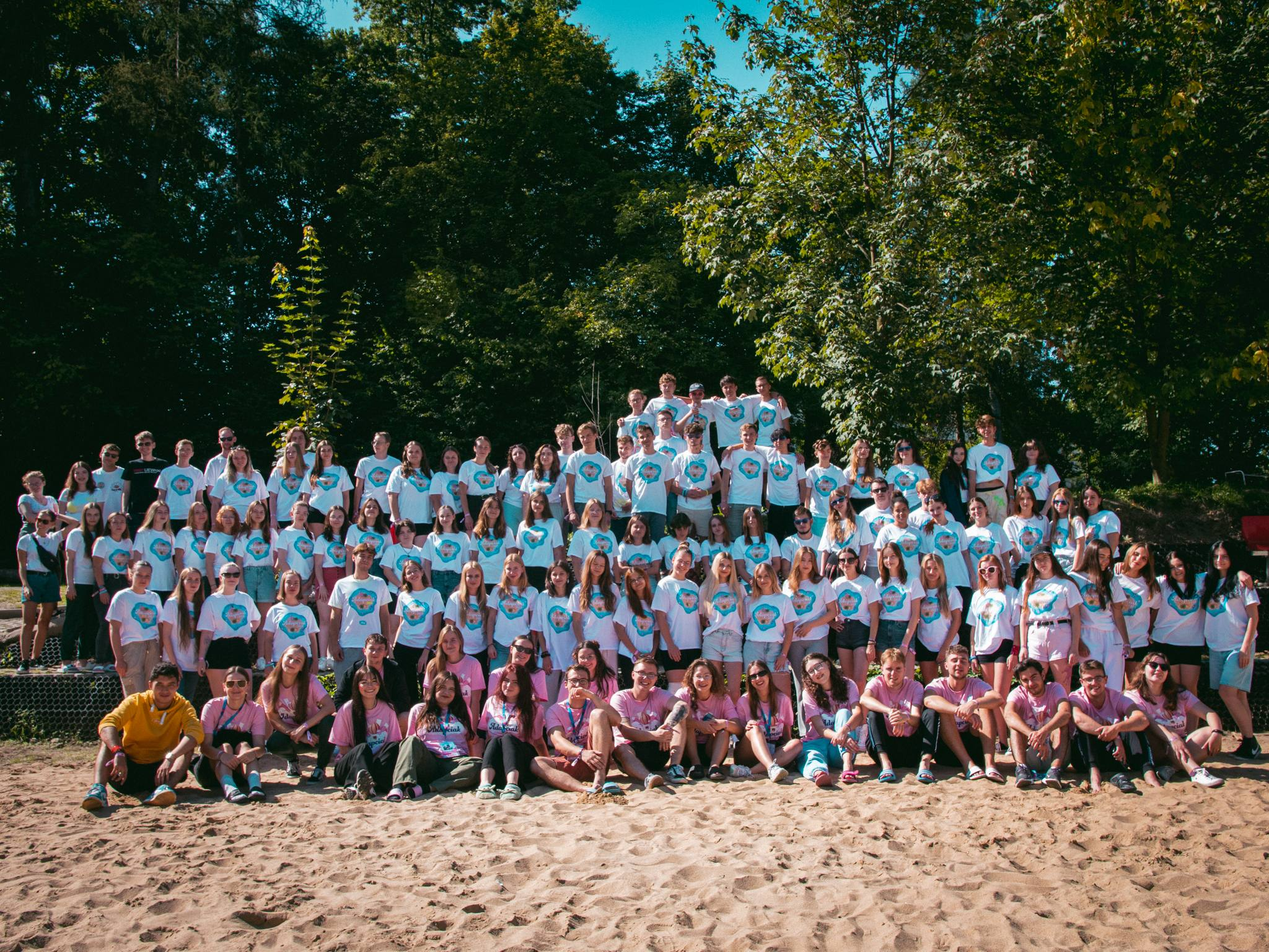
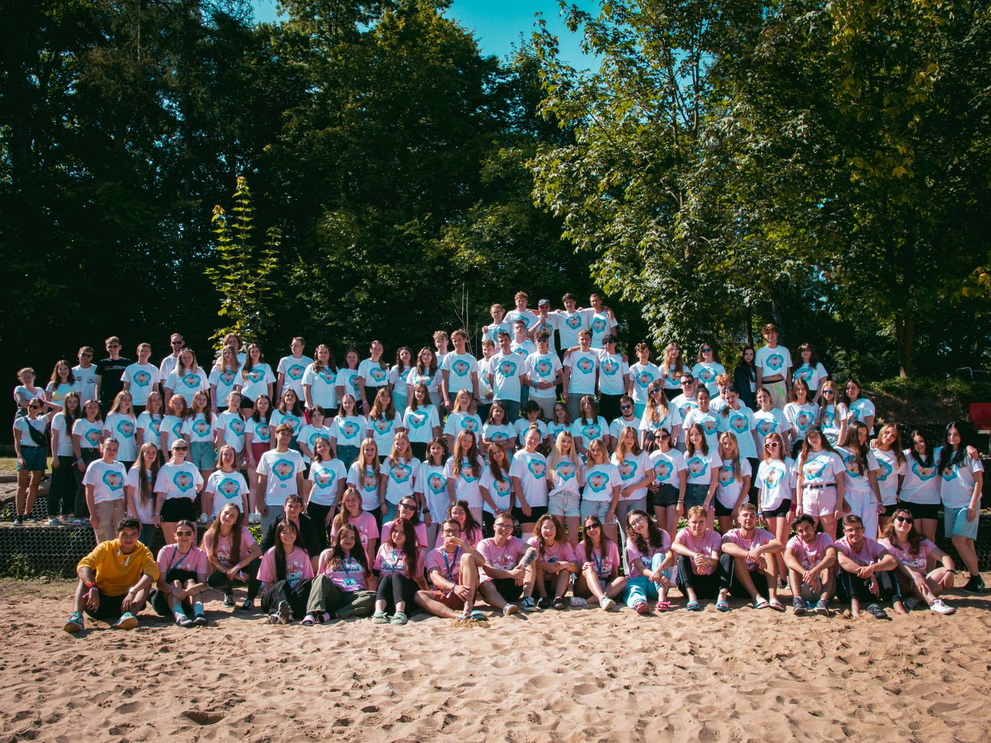
perf(runda 3): hero WebP + wersja mobilna, lazy-load obrazu galerii
- hero: 2048px/611 KB → 1600px/405 KB + hero.webp 345 KB; wersja mobilna
  hero-sm.webp 139 KB (image-set + @media 768px). Tło przeniesione z inline do <style>.
- preload responsywny (webp + media) zamiast jednego jpg.
- obraz "O wydarzeniu" (galeria/2.jpg 346 KB) → loading=lazy (był ładowany od razu).
- sw.js cache v6.

diff --git a/index.html b/index.html
@@ -137,7 +137,8 @@
 <link rel="preconnect" href="https://p.typekit.net" crossorigin/>
 <link rel="preconnect" href="https://fonts.googleapis.com"/>
 <link rel="preconnect" href="https://fonts.gstatic.com" crossorigin/>
-<link rel="preload" as="image" href="./images/hero.jpg" fetchpriority="high"/>
+<link rel="preload" as="image" href="./images/hero.webp" type="image/webp" media="(min-width: 769px)" fetchpriority="high"/>
+<link rel="preload" as="image" href="./images/hero-sm.webp" type="image/webp" media="(max-width: 768px)" fetchpriority="high"/>
 
 <!-- Confetti — defer: potrzebne dopiero po kliknięciu, nie blokuje renderu -->
 <script defer src="https://cdn.jsdelivr.net/npm/canvas-confetti@1.9.3/dist/confetti.browser.min.js" integrity="sha384-Rv68Y7adOjMMJc1/xFMcdNvXre/HF51to4GZjBALmXr7ABnVl5V4UajJwBu7zbhN" crossorigin="anonymous" referrerpolicy="no-referrer"></script>
@@ -276,6 +277,18 @@
   #start { background-attachment: fixed; }
   @media (hover: none) {
     #start { background-attachment: scroll; }
+  }
+
+  /* ─── Hero LCP: WebP + wersja mobilna (image-set; url() = fallback dla starszych) ─── */
+  #start {
+    background-image: linear-gradient(to bottom, rgba(28,25,23,0.3), rgba(28,25,23,0.88)), url('./images/hero.jpg');
+    background-image: linear-gradient(to bottom, rgba(28,25,23,0.3), rgba(28,25,23,0.88)), image-set(url('./images/hero.webp') type('image/webp'), url('./images/hero.jpg') type('image/jpeg'));
+  }
+  @media (max-width: 768px) {
+    #start {
+      background-image: linear-gradient(to bottom, rgba(28,25,23,0.3), rgba(28,25,23,0.88)), url('./images/hero-sm.jpg');
+      background-image: linear-gradient(to bottom, rgba(28,25,23,0.3), rgba(28,25,23,0.88)), image-set(url('./images/hero-sm.webp') type('image/webp'), url('./images/hero-sm.jpg') type('image/jpeg'));
+    }
   }
 
   /* ─── Harmonogram tabs ─── */
@@ -499,8 +512,6 @@
 ══════════════════════════════════════════════════════ -->
 <section id="start" class="relative min-h-[90vh] flex items-center justify-center pt-20 pb-32 clip-slant"
   style="
-    background-image: linear-gradient(to bottom, rgba(28,25,23,0.3), rgba(28,25,23,0.88)),
-                      url('./images/hero.jpg');
     background-color: #1C1917;
     background-size: cover;
     background-position: center top;
@@ -643,7 +654,7 @@
     <!-- Zdjęcie — używa galeria/2.jpg (wstęga przy budynku UEW) -->
     <div class="relative h-[480px] lg:h-[580px] w-full reveal reveal-delay-2">
       <div class="absolute inset-0 bg-primary/20 translate-x-4 translate-y-4 border border-primary" aria-hidden="true"></div>
-      <img src="./images/galeria/2.jpg" alt="Adapciak - poprzednia edycja przy budynku UEW" class="absolute inset-0 w-full h-full object-cover hover:scale-[1.02] transition-transform duration-500">
+      <img src="./images/galeria/2.jpg" alt="Adapciak - poprzednia edycja przy budynku UEW" loading="lazy" decoding="async" class="absolute inset-0 w-full h-full object-cover hover:scale-[1.02] transition-transform duration-500">
     </div>
   </div>
 </section>

diff --git a/sw.js b/sw.js
@@ -1,4 +1,4 @@
-const CACHE = 'adapciak-v5';
+const CACHE = 'adapciak-v6';
 const STATIC = [
   './',
   './index.html',
